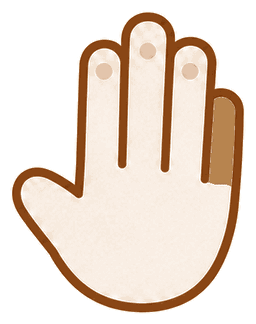
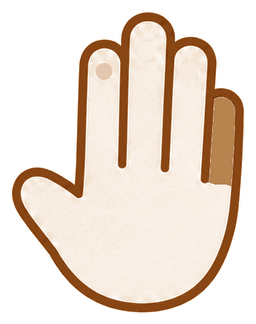
#50 Une seule pastille, sur l'index, parce que c'est le repère F et J
Chaque main dessinée portait trois pastilles claires, toujours sur les mêmes
doigts — annulaire, majeur, index — et jamais sur l'auriculaire ni le pouce. Le
motif était identique sur les douze visuels : un élément du dessin, pas un
marqueur d'état.

Le cahier exige que les repères tactiles `F` et `J` soient visibles dès la
première leçon. Or ce repère est UN doigt par main, l'index. Trois pastilles ne
correspondaient donc à rien de la méthode, et un enfant qui cherche à quoi elles
correspondent apprend une convention qui n'existe pas.

gpt-5.6-sol a écarté la seule autre lecture possible — la position de repos —
puisqu'elle exclurait arbitrairement l'auriculaire. Et il a tranché un point que
je n'aurais pas vu seul : la pastille reste visible même quand un AUTRE doigt
est surligné. Un point de référence n'a de sens que s'il ne bouge pas.

Les deux pastilles surnuméraires sont effacées des six sources, remplies par la
couleur qui les entourait, et les douze images régénérées. Le poids ne bouge
pas : 168 Ko.

Reste noté au cahier, et non fait : l'ergot devrait aussi être dessiné sur la
TOUCHE, puisqu'il appartient au clavier et non au doigt.

Claude-Session: https://claude.ai/code/session_012bjTNrLYfpSKjTDBq8gDE3

Changed region(s): [[0.5312, 0.1235, 0.625, 0.1852], [0.6875, 0.1852, 0.7812, 0.2469]]

diff --git a/CAHIER-DES-CHARGES.md b/CAHIER-DES-CHARGES.md
@@ -41,10 +41,8 @@ C'est la règle qui a arbitré cette révision.
 | 16 | **Les phrases n'existent qu'à partir de Maj et du point.** Les groupes nominaux sont admis dès l'espace. | v1 §4.7 (phrases hors MVP) | P3 : *le lion dort* est une phrase écrite faux ; *un chat* est vrai. |
 | 17 | **La proposition d'arrêt passe à la fin de la leçon.** | v1 §4.2 (4ᵉ bloc consécutif) | La leçon est désormais la séance entière. |
 
-**Ce qui reste ouvert et n'est pas tranché ici** : l'emplacement des actifs de
-mains dans le dépôt, le rendu en portrait sur téléphone, la signification des
-trois pastilles claires portées par chaque main dessinée, et le contenu exact
-de l'étape 10 (paragraphes).
+**Ce qui reste ouvert et n'est pas tranché ici** : le rendu en portrait sur
+téléphone, et le contenu exact de l'étape 10 (paragraphes).
 
 ---
 
@@ -306,7 +304,15 @@ Douze états, six visuels : `index`, `majeur`, `annulaire`, `auriculaire`,
 douze. **Les fichiers sont dans `public/doigts/`**, nommés
 `<doigt>_<gauche|droite>.png` — PNG à fond transparent, 256 px de large,
 168 Ko pour les douze. Ils sont calés au pixel près les uns sur les autres :
-une même boîte, une même ligne de base, aucun recadrage à faire. Sur le clavier, le porteur d'information reste la **POSITION**, pas la
+une même boîte, une même ligne de base, aucun recadrage à faire.
+
+**Chaque main porte une pastille claire sur l'index, et une seule.** C'est le
+repère tactile `F`/`J`, que le clavier physique marque d'un ergot et que le
+cahier exige visible dès la première leçon. Elle reste affichée quel que soit le
+doigt surligné : un point de référence n'a de sens que s'il ne bouge pas. Les
+visuels d'origine en portaient trois — annulaire, majeur, index — ce qui ne
+correspondait à aucune notion de la méthode et apprenait à l'enfant une
+convention inexistante. Sur le clavier, le porteur d'information reste la **POSITION**, pas la
 couleur : le clavier est scindé en trois blocs visuellement séparés. Chaque
 état doit rester discriminable **en niveaux de gris**. Aucune légende
 couleur→doigt sur l'écran de leçon.
